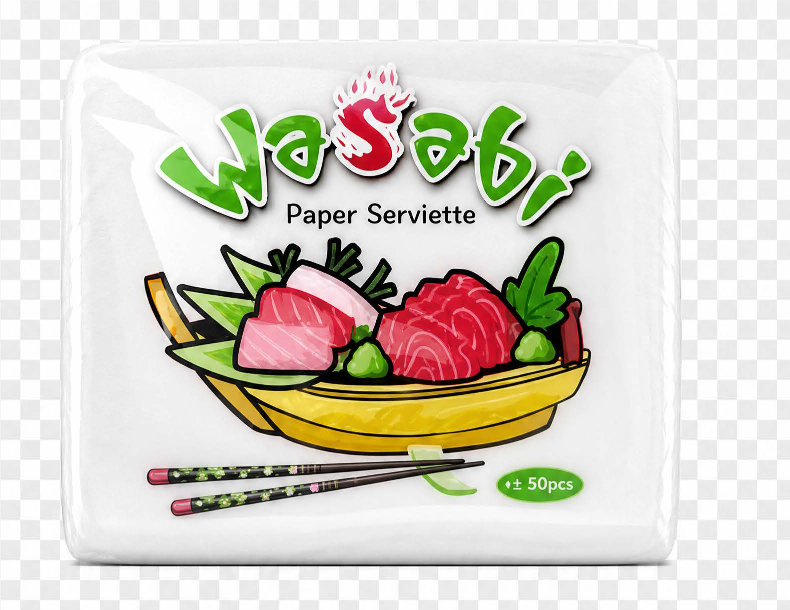
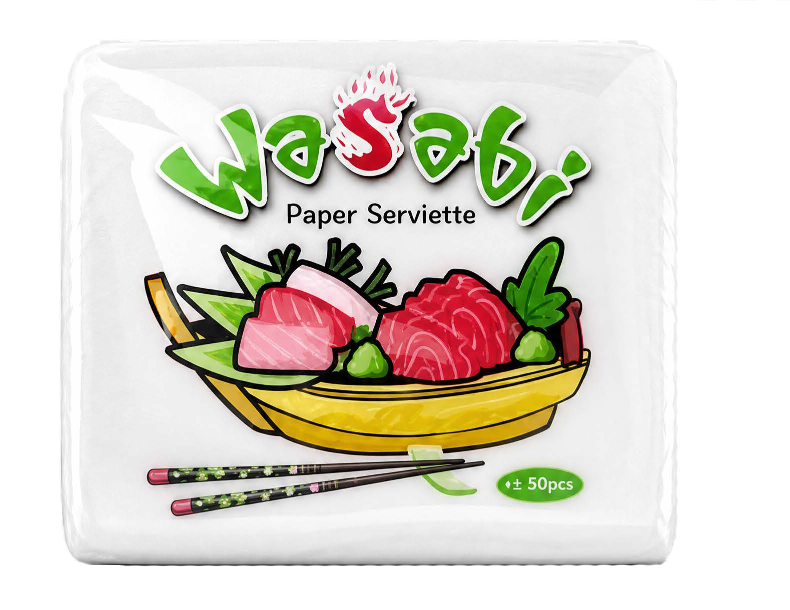
Replace the damaged Wasabi packshot with clean cutouts
The old wasabi-product.png carried a transparency checkerboard painted
into its RGB data on the same 20px grid as the Aimishu logo, alpha 255
throughout. No local filter could recover it: the pack body is white and
connects to the checkerboard's white squares, so an edge flood fill eats
the pack and leaves only the printed artwork.

Jimmi supplied clean replacements shot against a removable background.
Both verified checkerboard-free with genuine alpha (transparent corners),
so they composite onto the brand tint rather than sitting in a box:

  wasabi-product.png        790x610    flat-on 50pcs pack
  wasabi-product-200gm.png  1417x1415  angled 200gm pack

Wasabi now points at the 200gm angled pack to match the approved
mockup's Wasabi band; the 50pcs shot is kept for a second angle. The
200gm file arrived as "wasabi 200gm.png" and was renamed, since a space
in a filename becomes %20 in every generated image URL.

Verified all 14 brand assets return 200 at their served paths.

Changed region(s): [[0.0911, 0.9033, 0.8506, 0.9344], [0.8506, 0.4361, 0.881, 0.6541], [0.8506, 0.7164, 0.881, 0.7475]]

diff --git a/lib/brand-portfolio.ts b/lib/brand-portfolio.ts
@@ -51,7 +51,9 @@ export const brandPortfolio: BrandPortfolioItem[] = [
       "It fits naturally into Thai restaurants, street-food stalls, night markets and casual dining—more affordable than Cili, without giving up dependable everyday quality.",
     ],
     logo: "/images/unikota/brands/wasabi-logo.png",
-    image: "/images/unikota/brands/wasabi-product.png",
+    // 200gm angled pack, matching the approved mockup's Wasabi band. The flat-on
+    // 50pcs shot lives at wasabi-product.png if a second angle is ever needed.
+    image: "/images/unikota/brands/wasabi-product-200gm.png",
     accent: "#6d9d31",
     tint: "#f4f8e9",
     products: ["50g paper serviettes", "Street-food napkins", "Value food-service tissue"],
